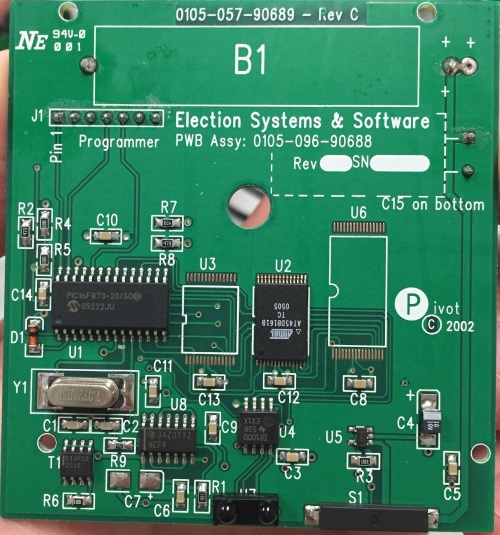
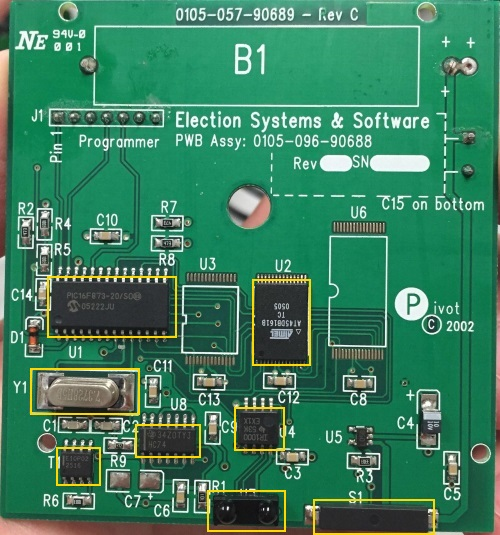
#22 Added more information; abstracted Javascript
Added more information to the PEB page, including Y1/Oscillator
description. Also abstracted the component details to JSON for both PEB
and iVotronic information.

diff --git a/peb.html b/peb.html
@@ -1,8 +1,12 @@
 <html>
     <head>
+        <meta charset="UTF-8" />
+        <meta http-equiv="content-type" content="text/html; charset=UTF-8" />
+        
         <title>Personalized Electronic Ballot</title>
         <link rel="stylesheet" href="styles/main_ui.css" />
         
+        <script type="text/javascript" src="dataMgmt.js"></script>
         <script type="text/javascript">
             function changeImage()
             {
@@ -20,74 +24,10 @@
                     togBox.innerHTML = "<a href=\"javascript:changeImage()\">Click here</a> to see a communications schematic of the PEB.";
                 }
             }
-            
-            function writeInformation(component)
+        
+            function writePEBInfo(component)
             {
-                var titleBar = document.getElementById("title");
-                var manf = document.getElementById("manu");
-                var sNum = document.getElementById("serial");
-                var dsLink = document.getElementById("datasheet");
-                var flavor = document.getElementById("flavor");
-                
-                switch(component)
-                {
-                    case "S1":
-                        titleBar.innerHTML = "Magnetic Field Switch";
-                        manf.innerHTML = "Unknown";
-                        sNum.innerHTML = "magentic field switch";
-                        dsLink.href = "#";
-                        dsLink.innerHTML = "None";
-                        flavor.innerHTML = "As the name suggests, the magnetic field switch engages when it is placed close to a magnet, such as the one inside the iVotronic's PEB receptacle, and sends power to the PEB's components, effectively powering on the handheld device.";
-                        break;
-                    case "T1":
-                        titleBar.innerHTML = "MOS Field-Effect Transistor";
-                        manf.innerHTML = "ON Semiconductor";
-                        sNum.innerHTML = "NTMS10P02R2";
-                        dsLink.href = "https://github.com/SCCapstone/omaha/blob/master/peb/datasheets/T1_E10P02.pdf";
-                        dsLink.innerHTML = "T1_E10P02.pdf";
-                        flavor.innerHTML = "A metal-oxide-semiconductor field-effect transistor (or MOSFET) is one of the most common types of transistors in use. Although specifics are not known, this component is involved with the PEB's IR communications.";
-                        break;
-                    case "U1":
-                        titleBar.innerHTML = "8-bit Microcontroller";
-                        manf.innerHTML = "Microchip Tech Inc.";
-                        sNum.innerHTML = "PIC16F873";
-                        dsLink.href = "https://github.com/SCCapstone/omaha/blob/master/peb/datasheets/U1_PIC16F87X.pdf";
-                        dsLink.innerHTML = "U1_PIC16F87X.pdf";
-                        flavor.innerHTML = "The microcontroller is the most important component on the board: it is what implements the logic needed to get the board functioning through interoperating with the other components on the board. Its primary function is to communicate with the iVotronic to manage ballot and vote information. Furthermore, it can be programmed via the external port (marked J1) using the In-Circuit Serial Programming (ICSP) protocol";
-                        break;
-                    case "U2":
-                        titleBar.innerHTML = "16-Megabit DataFlash&reg; Chip";
-                        manf.innerHTML = "Atmel";
-                        sNum.innerHTML = "AT45DB161B";
-                        dsLink.href = "https://github.com/SCCapstone/omaha/blob/master/peb/datasheets/U2_AT45DB161B.pdf";
-                        dsLink.innerHTML = "U2_AT45DB161B.pdf";
-                        flavor.innerHTML = "The DataFlash memory chip stores 16 megabits (2 megabytes) of information used by the PEB, and it communicates with the microcontroller via the Serial Peripheral Interface (SPI) protocol. Specifically, this chip stores all of the information needed for an election ballot: candidate information, precinct information, and&mdash;most importantly&mdash;vote totals. More chips can be added to the device for redundancy.";
-                        break;
-                    case "U4":
-                        titleBar.innerHTML = "IrDA&trade; Encoder/Decoder";
-                        manf.innerHTML = "Texas Instruments";
-                        sNum.innerHTML = "TIR1000";
-                        dsLink.href = "https://github.com/SCCapstone/omaha/blob/master/peb/datasheets/U4_TIR1000.pdf";
-                        dsLink.innerHTML = "U4_TIR1000.pdf";
-                        flavor.innerHTML = "The IrDA&trade; Encode/Decoder acts an intermediary between the microcontroller (U2) and the infrared tranceiver (U7). It translates between the raw data used by the controller (sent via the UART/USART protocol) and the IrDA&trade; packets sent and recieved by the transceiver. IrDA&trade; is a standard protocol for transimitting information via infrared light.";
-                        break;
-                    case "U7":
-                        titleBar.innerHTML = "Infrared Transceiver";
-                        manf.innerHTML = "Vishay Semiconductors";
-                        sNum.innerHTML = "TFDU4100";
-                        dsLink.href = "https://github.com/SCCapstone/omaha/blob/master/peb/datasheets/U7_TFDU4100.pdf";
-                        dsLink.innerHTML = "U7_TFDU4100.pdf";
-                        flavor.innerHTML = "The infrared (IR) transceiver is the lowest-level interface between the PEB and the iVotronic voting machine. It sends and receives packets of information that are encoded and decoded by the IrDA&trade; en-/decoder.";
-                        break;
-                    case "U8":
-                        titleBar.innerHTML = "Dual D Flip-Flops";
-                        manf.innerHTML = "Texas Instruments";
-                        sNum.innerHTML = "SN74HC74";
-                        dsLink.href = "https://github.com/SCCapstone/omaha/blob/master/peb/datasheets/U8_SN74HC74.pdf";
-                        dsLink.innerHTML = "U8_SN74HC74.pdf";
-                        flavor.innerHTML = "The two <a href=\"https://en.wikipedia.org/wiki/Flip-flop_(electronics)#D_flip-flop\">D flip-flops</a> on this component are  connected in series to step down the clock signal (generated by the clock, component Y1) by a factor of 4 to be within a usable range for the IrDA$trade; en-/decoder (which can only accept a signal upto 1.8 MHz).";
-                        break;
-                }
+                getInformation('peb', component);
             }
         </script>
         
@@ -113,19 +53,22 @@
             }
         </style>
     </head>
-
     <body>
         <map name="boardmap">
-            <area shape="rect" coords=" 314, 500, 433, 534" href="javascript:writeInformation('S1')" title="Magnetic Field Switch" />
-            <area shape="rect" coords="  57, 448,  99, 484" href="javascript:writeInformation('T1')" title="MOSFET" />
-            <area shape="rect" coords="  48, 277, 175, 336" href="javascript:writeInformation('U1')" title="Microcontroller">
-            <area shape="rect" coords=" 253, 280, 309, 364" href="javascript:writeInformation('U2')" title="Flash Memory">
-            <area shape="rect" coords=" 235, 408, 283, 449" href="javascript:writeInformation('U4')" title="IrDA En-/Decoder">
-            <area shape="rect" coords=" 208, 491, 284, 530" href="javascript:writeInformation('U7')" title="IrDA Transceiver" />
-            <area shape="rect" coords=" 136, 425, 199, 456" href="javascript:writeInformation('U8')" title="D Flip-Flop">
+            <area shape="rect" coords=" 314, 500, 433, 534" href="javascript:writePEBInfo('S1')" title="Magnetic Field Switch" />
+            <area shape="rect" coords="  57, 448,  99, 484" href="javascript:writePEBInfo('T1')" title="MOSFET" />
+            <area shape="rect" coords="  48, 277, 175, 336" href="javascript:writePEBInfo('U1')" title="Microcontroller" />
+            <area shape="rect" coords=" 253, 280, 309, 364" href="javascript:writePEBInfo('U2')" title="Flash Memory" />
+            <area shape="rect" coords=" 235, 408, 283, 449" href="javascript:writePEBInfo('U4')" title="IrDA En-/Decoder" />
+            <area shape="rect" coords=" 208, 491, 284, 530" href="javascript:writePEBInfo('U7')" title="IrDA Transceiver" />
+            <area shape="rect" coords=" 136, 425, 199, 456" href="javascript:writePEBInfo('U8')" title="D Flip-Flop" />
+            <area shape="rect" coords="  31, 369, 138, 413" href="javascript:writePEBInfo('Y1')" title="Clock" />
         </map>
 
         <a href="index.html">Return to homepage</a>
+        <h1>Portable Electronic Ballot</h1>
+        <p>The Portable Electronic Ballot, or PEB, is a handheld cartridge that slots into the iVotronic and records ballot information and vote totals during an election.</p>
+        <p>The hardware used to construct the PEB is fairly standard. A microcontroller uses a flash memory chip to store the information described above and a regular infrared en-/decoder and transceiver to relay that information between the iVotronic machine via infrared signals. Additionally, the communication protocols used to exchange data are well-documented and widely used within the electronics industry: the Serial Peripheral Interface (SPI) protocol is used to exchange information between the controller and memory chip, whereas Universal Asynchronous Receiver/Transmitter (UART) components built into the controller and IR transceiver exchange the information between themselves that is sent to and received from the iVotronic through an Infrared Data Association (IrDA) protocol stack.</p> 
         <hr />
         <div class="imageBox">
             <img id="pebImg" src="resources/peb/board.jpg" alt="PEB Board" usemap="#boardmap">

diff --git a/ivo_main.html b/ivo_main.html
@@ -1,17 +1,19 @@
-<head>
-  <title>iVotronic Main Board</title>
-</head>
+<html>
+    <head>
+        <title>iVotronic Main Board</title>
+    </head>
 
-<body>
-<map name="boardmap">
-    <area shape="rect" coords="965,1361,1140,1542" href="https://github.com/SCCapstone/omaha/blob/master/ivo/datasheets/CPU_KU80386EX25.pdf" alt="CPU">
-    <area shape="rect" coords="841,968,1016,1293" href="http://sccapstone.github.io/omaha/ivo_memory.html" alt="memory">
-    <area shape="rect" coords="205,981,367,1302" href="http://sccapstone.github.io/omaha/ivo_memory.html" alt="memory">
-    <area shape="rect" coords="102,33,491,956" href="http://sccapstone.github.io/omaha/ivo_video.html" alt="video">
-    <area shape="rect" coords="541,577,908,903" href="http://sccapstone.github.io/omaha/ivo_sound.html" alt="sound">
-  </map>
+    <body>
+        <map name="boardmap">
+            <area shape="rect" coords="483, 681, 570, 771" href="https://github.com/SCCapstone/omaha/blob/master/ivo/datasheets/CPU_KU80386EX25.pdf" alt="CPU">
+            <area shape="rect" coords="421, 484, 508, 647" href="http://sccapstone.github.io/omaha/ivo_memory.html" alt="memory">
+            <area shape="rect" coords="103, 491, 184, 651" href="http://sccapstone.github.io/omaha/ivo_memory.html" alt="memory">
+            <area shape="rect" coords=" 51,  17, 246, 478" href="http://sccapstone.github.io/omaha/ivo_video.html" alt="video">
+            <area shape="rect" coords="271, 289, 454, 451" href="http://sccapstone.github.io/omaha/ivo_sound.html" alt="sound">
+        </map>
 
-  <a href="index.html">Return to homepage</a>
-  <hr />
-  <img src="ivo_main.jpg" alt="" usemap="#boardmap">
-</body>
+        <a href="index.html">Return to homepage</a>
+        <hr />
+        <img src="ivo_main.jpg" alt="" usemap="#boardmap">
+    </body>
+</html>

diff --git a/dataMgmt.js b/dataMgmt.js
@@ -1,0 +1,45 @@
+function getInformation(dev, comp)
+{
+    var request = new XMLHttpRequest();
+    var url = "componentData.json";
+    
+    request.open("GET", url, false);
+    request.overrideMimeType("application/json");
+    request.send();
+    
+    var jsonData = JSON.parse(request.responseText);
+    writeInformation(jsonData, dev, comp);
+}
+
+function writeInformation(jsonData, device, component)
+{
+    console.log("writeInformation('"+device+"', '"+component+"')");
+    
+    if (jsonData === null)
+    {
+        console.log("Received null data.");
+        return;
+    }
+    
+    var componentData = jsonData[device][component];
+    var titleBar = document.getElementById("title");
+    var manf = document.getElementById("manu");
+    var serial = document.getElementById("serial");
+    var dsLink = document.getElementById("datasheet");
+    var flavor = document.getElementById("flavor");
+    
+    if (!componentData)
+    {
+        titleBar.innerHTML = "No data found for device:" + device + " component:" + component;
+        flavor.innerHTML = titleBar.innerHTML;
+    }
+    else
+    {
+        titleBar.innerHTML = componentData.title;
+        manf.innerHTML = componentData.manf;
+        serial.innerHTML = componentData.serial;
+        dsLink.href = componentData.datasheet[0];
+        dsLink.innerHTML = componentData.datasheet[1];
+        flavor.innerHTML = componentData.detail;
+    }
+}
